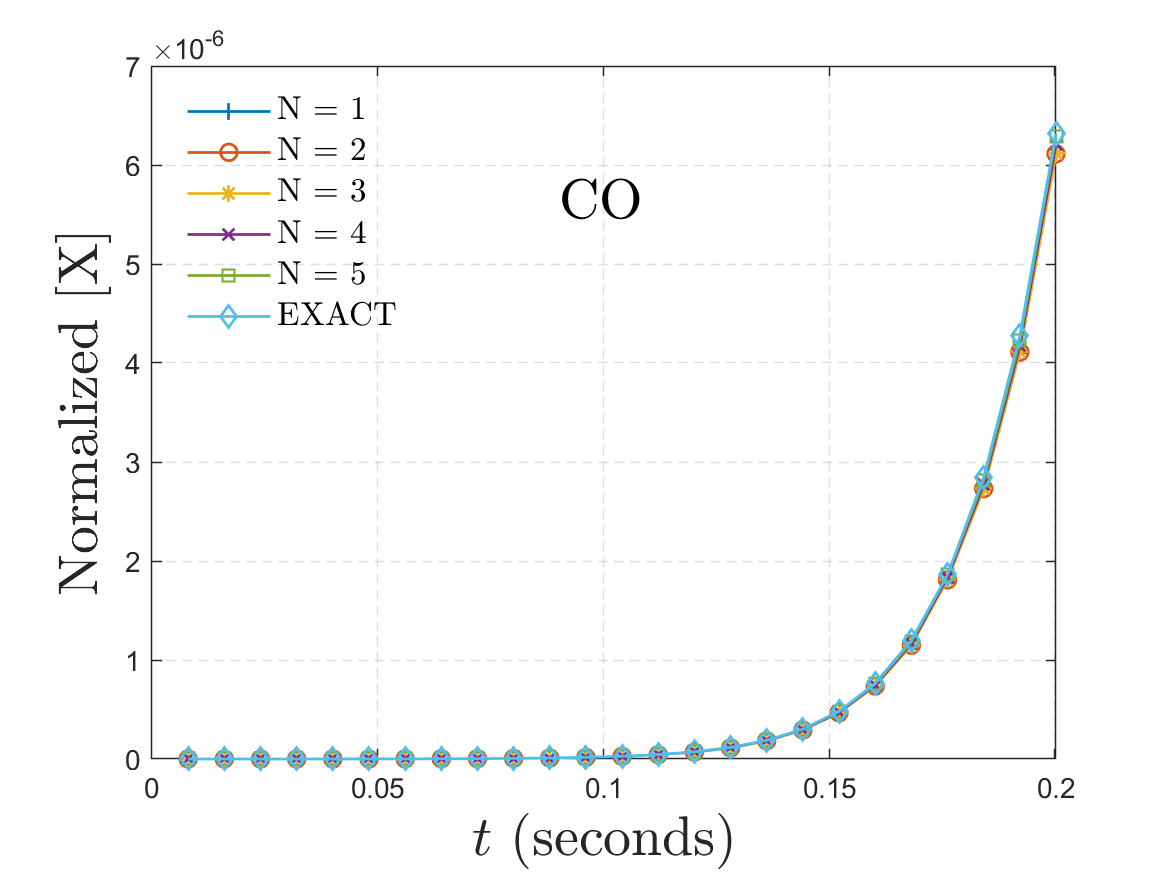
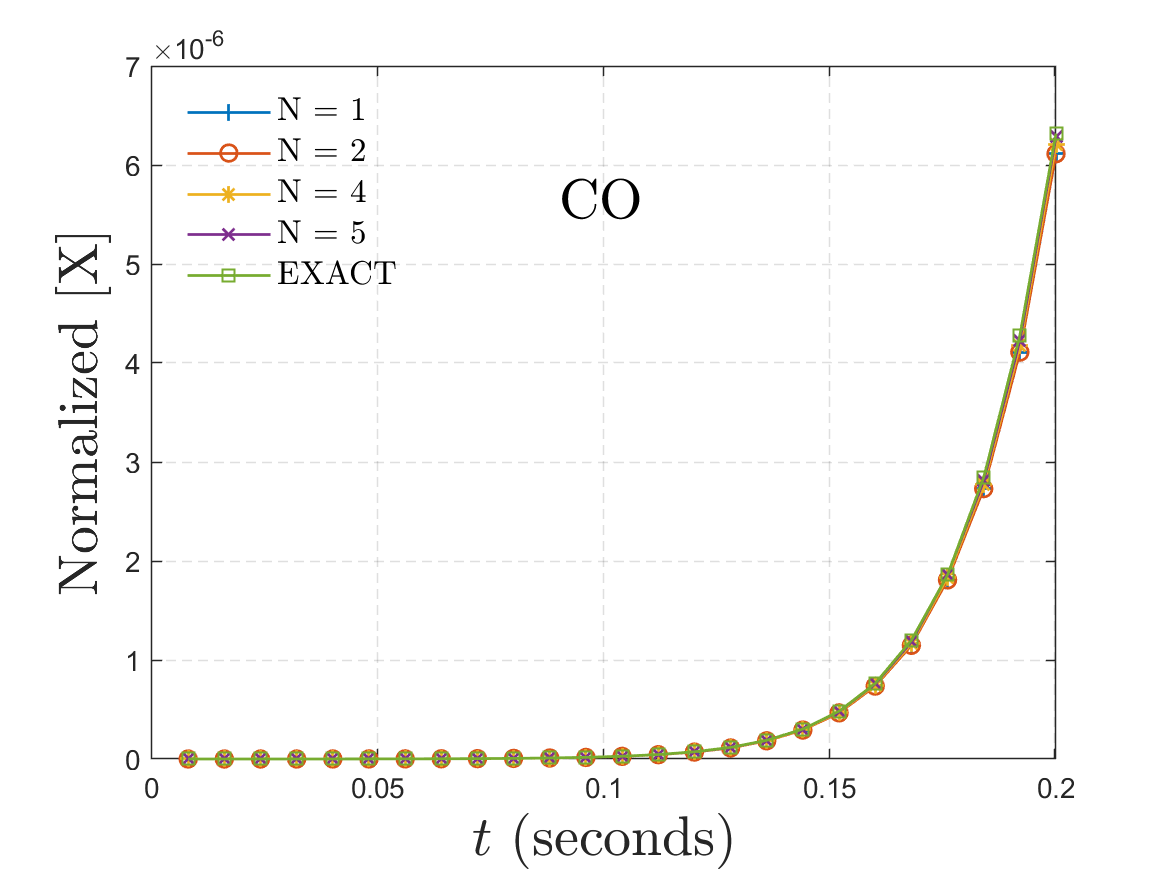
minor

diff --git a/theory/misc/trajectory_convergence/DOE_talk_650/CO_primitive_pathway/species_conc_path_prob_convergence_v1.m b/theory/misc/trajectory_convergence/DOE_talk_650/CO_primitive_pathway/species_conc_path_prob_convergence_v1.m
@@ -57,7 +57,7 @@ scc_pp = [dataArray{1:end-1}];
 clearvars f_n_pp delimiter formatSpec fileID dataArray ans;
 
 %% global properties
-idx_vec = [1 5 10 15];
+idx_vec = [1 5 10 50];
 N = length(idx_vec);
 y_label_str = 'Normalized [X]';
 

diff --git a/theory/misc/trajectory_convergence/DOE_talk_650/CO_merged_pathway/species_conc_path_prob_convergence_v1.m b/theory/misc/trajectory_convergence/DOE_talk_650/CO_merged_pathway/species_conc_path_prob_convergence_v1.m
@@ -56,7 +56,7 @@ scc_pp = [dataArray{1:end-1}];
 clearvars f_n_pp delimiter formatSpec fileID dataArray ans;
 
 %% global properties
-idx_vec = [1 2 3 4 5];
+idx_vec = [1 2 4 5];
 N = length(idx_vec);
 y_label_str = 'Normalized [X]';
 
